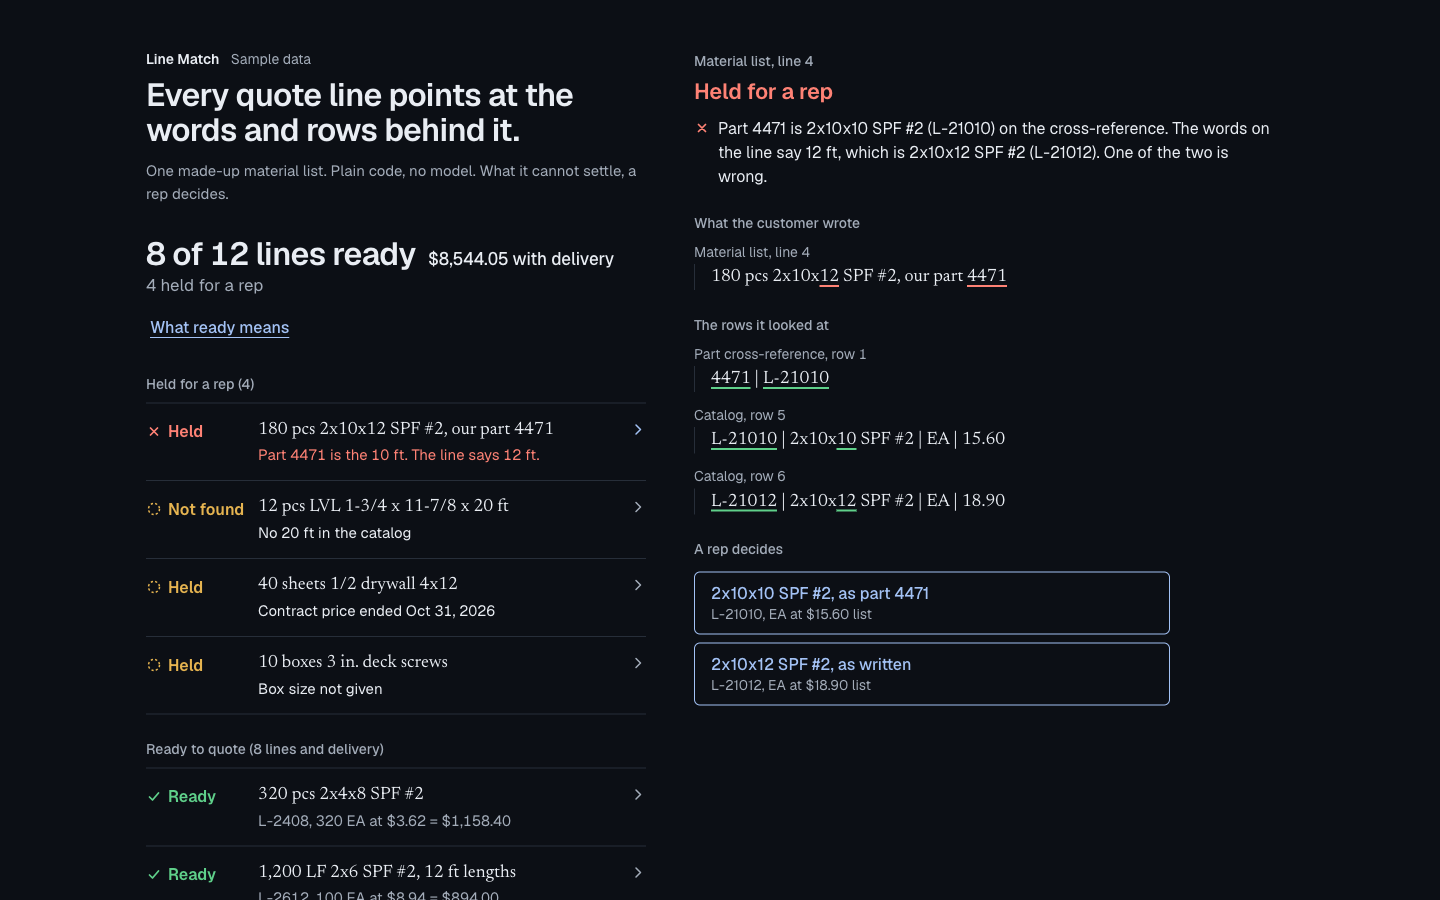
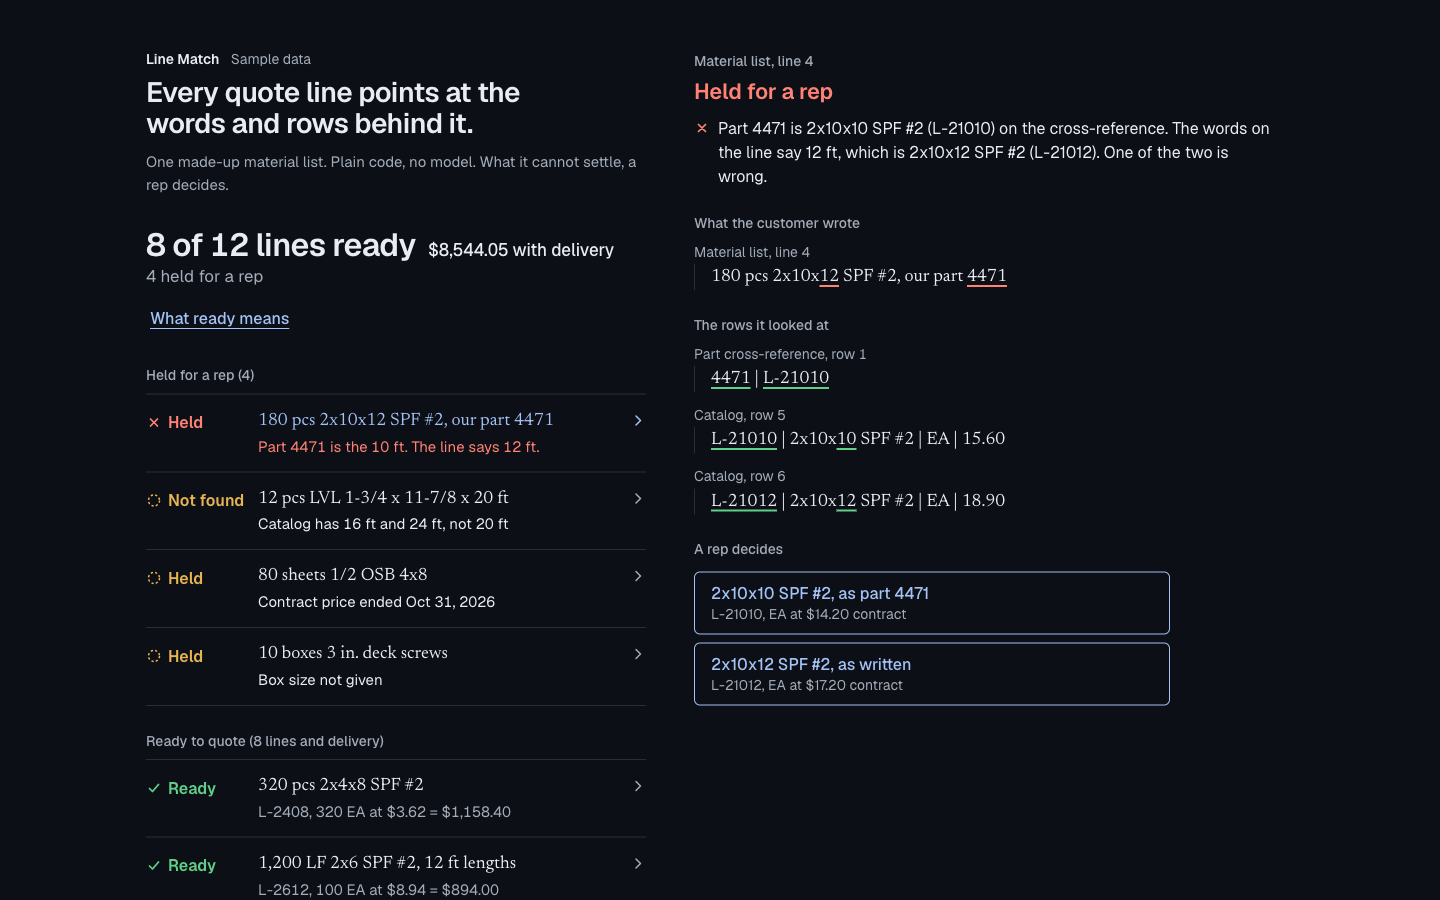
Apply review: square feet convert only where a sheet covers its face, pasted lines read plain sizes and say true reasons, a stud needs a length, choices show the price that applies, sample is a framer's list, re-shot

diff --git a/check.test.js b/check.test.js
@@ -29,7 +29,7 @@ test("the catalog reads cleanly: every row has a product and no leftover words",
     assert.ok(it.read.kind, it.desc);
     assert.deepEqual(it.read.unread, [], it.desc);
   }
-  assert.equal(book.cat.length, 17);
+  assert.equal(book.cat.length, 18);
 });
 
 test("linear feet become pieces by the item's length", () => {
@@ -45,11 +45,20 @@ test("linear feet become pieces by the item's length", () => {
 });
 
 test("square feet become sheets, rounded up, with the working shown", () => {
-  const l = checkAll(sample).lines[6];
-  assert.equal(l.item.sku, "P-2332T");
-  assert.equal(l.qty, 63);
-  assert.equal(l.amount, 1811.25);
-  assert.match(l.calc, /2,000 SF \/ 32 SF a sheet = 62\.5, rounded up to 63 SHT/);
+  const l = checkAll(sample).lines[5];
+  assert.equal(l.item.sku, "P-0716");
+  assert.equal(l.qty, 96);
+  assert.equal(l.amount, 1142.4);
+  assert.match(l.calc, /3,050 SF \/ 32 SF a sheet = 95\.31, rounded up to 96 SHT/);
+});
+
+test("square feet of a tongue-and-groove panel are held: the net width is not on the catalog row", () => {
+  const l = one("2,000 SF 3/4 T&G subfloor 4x8");
+  assert.equal(l.ready, false);
+  assert.equal(l.short, "Unit not settled");
+  assert.match(l.why, /a T&G sheet covers a little less than its 4x8 face/);
+  assert.equal(checkAll(sample).lines[6].qty, 63); // asked for in sheets, so nothing to convert
+  assert.equal(checkAll(sample).lines[6].amount, 1811.25);
 });
 
 test("a 3/4 subfloor is the 23/32 item, and the line says so", () => {
@@ -73,11 +82,12 @@ test("a rep's pick settles a held line and is recorded", () => {
   assert.equal(l4.amount, 3096);
   assert.equal(l4.by, "rep");
   assert.equal(l11.amount, 385);
-  assert.equal(l9.price, 15.4);
-  assert.equal(l9.amount, 616);
+  assert.equal(l9.price, 15.1);
+  assert.equal(l9.amount, 1208);
+  assert.match(l9.reason, /1\/2 \(sold as 15\/32\)/);
   assert.equal(l9.by, "rep");
   assert.equal(r.ready.length, 11);
-  assert.equal(r.total, 12641.05);
+  assert.equal(r.total, 13233.05);
 });
 
 test("a part number that agrees with the words passes, and settles a line the words leave open", () => {
@@ -99,7 +109,7 @@ test("box size not given: two items fit, held", () => {
 test("a length the catalog does not stock is not found, and nothing is swapped in", () => {
   const l = checkAll(sample).lines[7];
   assert.equal(l.state, "none");
-  assert.equal(l.short, "No 20 ft in the catalog");
+  assert.equal(l.short, "Catalog has 16 ft and 24 ft, not 20 ft");
   assert.match(l.why, /16 ft and 24 ft, not 20 ft/);
   assert.deepEqual(l.options, []);
 });
@@ -107,7 +117,7 @@ test("a length the catalog does not stock is not found, and nothing is swapped i
 test("a contract price past its date is held; a live one is used; no row means list", () => {
   const l = checkAll(sample).lines[8];
   assert.equal(l.kindOfHold, "price");
-  assert.match(l.why, /\$13\.85 ended on Oct 31, 2026, before the quote date, Nov 17, 2026/);
+  assert.match(l.why, /\$13\.60 ended on Oct 31, 2026, before the quote date, Nov 17, 2026/);
   assert.equal(l.short, "Contract price ended Oct 31, 2026");
   assert.equal(checkAll(sample).lines[0].priceKind, "contract");
   const list = one("40 pcs 2x6x16 SPF #2");
@@ -123,7 +133,7 @@ test("pasted lines: each comes out ready, held or not read, and none is dropped"
   assert.equal(out.length, 5);
   assert.deepEqual(out.map((l) => l.ready), [true, true, false, true, false]);
   assert.equal(out[2].short, "Sheet size not given");
-  assert.equal(out[4].short, "No 2x8 in the catalog");
+  assert.equal(out[4].short, "Catalog has 2x6 and 2x10, not 2x8");
   const junk = checkPasted("hello there\n\n40 pcs 2x6x16 SPF #2\n40 pcs 2x6x16 SPF #2\n0 pcs 2x4x8 SPF #2\n-5 pcs 2x4x8 SPF #2\n2.5 pcs 2x4x8 SPF #2", sample);
   assert.equal(junk.length, 6);
   assert.equal(junk[0].short, "Not read");
@@ -143,12 +153,49 @@ test("a word it does not know holds the line, even when the rest would match", (
 });
 
 test("a different species, a wrong unit and a line with no product are all held", () => {
-  assert.equal(one("40 pcs 2x6x16 SYP #2").short, "No SYP in the catalog");
+  assert.equal(one("40 pcs 2x6x16 SYP #2").short, "Catalog has SPF, not SYP");
   assert.equal(one("40 sheets 2x4x8 SPF #2").short, "Unit not settled");
   assert.equal(one("100 LF 7/16 OSB 4x8").short, "Unit not settled");
   assert.equal(one("10 rolls 2x4x8 SPF #2").short, "Unit not settled");
   assert.equal(one("12 pcs #2").short, "No product in these words");
   assert.equal(one("12 pcs 2x4 SPF #2").short, "Length not given");
+});
+
+test("a line the way a mail client writes it: spaced sizes, ft after the length, a multiplication sign", () => {
+  for (const t of ["60 pcs #2 SPF 2 x 4 x 8 ft", "60 pcs \u00b7 #2 SPF 2 \u00d7 4 \u00d7 8 ft", "60 pcs 2x4x8' SPF #2"]) {
+    const l = one(t);
+    assert.equal(l.ready, true, t);
+    assert.equal(l.item.sku, "L-2408", t);
+    assert.equal(l.amount, 217.2, t);
+  }
+});
+
+test("when nothing fits, the reason names the missing detail and says nothing false about the catalog", () => {
+  assert.equal(one("100 pcs 2x4x10 SPF #2").short, "Catalog has 8 ft, not 10 ft"); // row 1 of the catalog is a 2x4
+  assert.equal(one("40 pcs 2x6x10 SPF #2").short, "Catalog has 12 ft and 16 ft, not 10 ft");
+  assert.equal(one("120 sheets 3/4 OSB 4x8").short, "Catalog has 7/16 and 15/32, not 3/4 (23/32)");
+});
+
+test("a part number for a different kind of item: both items are named in full", () => {
+  const l = one("180 pcs 2x10x12 SPF #2, our part 4502");
+  assert.equal(l.state, "fail");
+  assert.equal(l.short, "Part 4502 is 7/16 OSB 4x8. The line says 2x10x12 SPF #2.");
+  assert.ok(!/none/.test(l.short + l.why));
+  assert.deepEqual(l.options.map((o) => o.sku), ["P-0716", "L-21012"]);
+});
+
+test("a stud with no length is held, like any other lumber", () => {
+  const l = one("100 pcs 2x4 studs");
+  assert.equal(l.ready, false);
+  assert.equal(l.short, "Length not given");
+  assert.deepEqual(l.options.map((o) => o.sku), ["L-2492"]);
+  assert.equal(checkAll(sample).lines[2].ready, true); // the sample line gives 92-5/8
+});
+
+test("a choice shows the price that will apply, contract or list", () => {
+  const r = checkAll(sample);
+  assert.deepEqual(r.lines[3].options.map((o) => o.note), ["L-21010, EA at $14.20 contract", "L-21012, EA at $17.20 contract"]);
+  assert.deepEqual(r.lines[10].options.map((o) => o.note), ["F-D301, BX at $9.80 list", "F-D305, BX at $38.50 list"]);
 });
 
 test("delivery: added only from the email and the zone sheet", () => {
@@ -210,6 +257,6 @@ test("words: what the reader takes from a description", () => {
   assert.equal(r.kind, "lvl");
   assert.equal(r.attrs.section.v, "1-3/4 x 11-7/8");
   assert.equal(r.attrs.len.v, "20");
-  assert.equal(readWords("3-1/4 in. x .131 framing nails, 2,500 ct").attrs.shank.v, ".131");
+  assert.equal(readWords("3-1/4 in. x .131 framing nails, 2,000 ct").attrs.shank.v, ".131");
   assert.equal(convert(96, "sheets", book.bySku.get("P-0716")).qty, 96);
 });

diff --git a/check.js b/check.js
@@ -36,7 +36,7 @@ const FILLER = new Set([
   "box", "boxes", "ea", "each", "pcs", "pc", "pieces", "sheets", "sheet", "rolls", "roll", "our", "please",
 ]);
 const REQUIRED = {
-  lumber: ["nominal", "len"], stud: ["nominal"], osb: ["thick"], subfloor: ["thick"],
+  lumber: ["nominal", "len"], stud: ["nominal", "len"], osb: ["thick"], subfloor: ["thick"],
   drywall: ["thick", "size"], lvl: ["section", "len"], wrap: ["size"], screw: ["flen", "pack"], nail: ["flen"],
 };
 export const ATTR_NAMES = {
@@ -45,8 +45,11 @@ export const ATTR_NAMES = {
 };
 const KIND_NAMES = {
   lumber: "lumber", stud: "precut stud", osb: "OSB", subfloor: "subfloor", drywall: "drywall",
-  lvl: "LVL", wrap: "house wrap", screw: "deck screws", nail: "framing nails",
+  lvl: "LVL", wrap: "house wrap", screw: "box of deck screws", nail: "box of framing nails",
 };
+// When nothing fits, the detail to name first: the one a reader thinks of as the variant.
+const BLAME = ["len", "size", "pack", "thick", "flen", "shank", "edge", "grade", "species", "section", "nominal"];
+const list = (a) => (a.length < 3 ? a.join(" and ") : `${a.slice(0, -1).join(", ")} and ${a.at(-1)}`);
 const say = (k, v) => (k === "len" && /^\d+$/.test(v) ? `${v} ft` : k === "flen" ? `${v} in.` : k === "species" ? v.toUpperCase() : v);
 
 /**
@@ -54,7 +57,7 @@ const say = (k, v) => (k === "len" && /^\d+$/.test(v) ? `${v} ft` : k === "flen"
  * of the text, so nothing is read twice, and whatever is left over is reported.
  */
 export function readWords(text, base = 0) {
-  let work = text.toLowerCase();
+  let work = text.toLowerCase().replace(/\u00d7/g, "x");
   const attrs = {};
   let kind = null;
   let kindRef = null;
@@ -89,7 +92,7 @@ export function readWords(text, base = 0) {
   if (PANELS.has(kind)) {
     hit(/\b4\s*x\s*(8|9|10|12)\b/, (m, at) => set("size", `4x${m[1]}`, at(0)));
   } else if (kind === null || kind === "stud") {
-    hit(/\b([246])\s*x\s*(\d{1,2})(?:\s*x\s*(\d{1,2})\b)?/, (m, at) => {
+    hit(/\b([246])\s*x\s*(\d{1,2})(?:\s*x\s*(\d{1,2})\b(?:\s*(?:ft\b\.?|foot\b|'))?)?/, (m, at) => {
       set("nominal", `${m[1]}x${m[2]}`, { start: at(1).start, end: at(2).end });
       if (m[3] && !attrs.len) set("len", m[3], at(3));
     });
@@ -113,7 +116,7 @@ export function readWords(text, base = 0) {
   if (!kind && attrs.nominal) kind = "lumber";
 
   const unread = [];
-  for (const m of work.matchAll(/[^\s,;:()]+/g)) {
+  for (const m of work.matchAll(/[^\s,;:()\u00b7]+/g)) {
     const w = m[0].replace(/^[.'"-]+|[.'"-]+$/g, "");
     if (!w || FILLER.has(w)) continue;
     unread.push({ text: text.slice(m.index, m.index + m[0].length), start: base + m.index, end: base + m.index + m[0].length });
@@ -186,6 +189,7 @@ export function convert(qty, unit, item) {
   }
   if (unit === "SF") {
     const m = a.size && /^(\d+)x(\d+)$/.exec(a.size.v);
+    if (a.edge) return { ok: false, why: `Asked for in square feet; a ${a.edge.v} sheet covers a little less than its ${a.size ? a.size.v : "nominal"} face, and this catalog row does not give the net width.` };
     if (!m || item.unit !== "SHT") return { ok: false, why: `Asked for in square feet; this item is sold by the ${item.unit} with no sheet size.` };
     const area = Number(m[1]) * Number(m[2]);
     const exact = qty / area;
@@ -237,7 +241,11 @@ export function checkLine(text, n, book, picks = {}, doc = "list") {
 
   let item = null;
   let settled = null; // how the item was settled, for the reader
-  const opt = (it, label) => ({ kind: "item", sku: it.sku, label: label || it.desc, note: `${it.sku}, ${it.unit} at $${fmt(it.list)} list` });
+  const applies = (it) => {
+    const r = book.price.find((p) => p.sku === it.sku);
+    return r && r.until >= book.quoteDate ? `$${fmt(r.amount)} contract` : `$${fmt(it.list)} list`;
+  };
+  const opt = (it, label) => ({ kind: "item", sku: it.sku, label: label || it.desc, note: `${it.sku}, ${it.unit} at ${applies(it)}` });
   if (picks.item && book.bySku.has(picks.item)) {
     item = book.bySku.get(picks.item);
     settled = "rep";
@@ -246,8 +254,9 @@ export function checkLine(text, n, book, picks = {}, doc = "list") {
     const diff = Object.keys(read.attrs).filter((k) => !other.read.attrs[k] || other.read.attrs[k].v !== read.attrs[k].v);
     const said = diff.map((k) => say(k, read.attrs[k].v)).join(", ");
     const is = diff.map((k) => (other.read.attrs[k] ? say(k, other.read.attrs[k].v) : "none")).join(", ");
-    return hold("fail", `Part ${read.part.v} is the ${is}. The line says ${said}.`,
-      `Part ${read.part.v} is ${other.desc} (${other.sku}) on the cross-reference. The words on the line say ${said}, which is ${cands[0].desc} (${cands[0].sku}). One of the two is wrong.`,
+    const alike = other.read.kind === read.kind && diff.length > 0 && diff.every((k) => other.read.attrs[k]);
+    return hold("fail", alike ? `Part ${read.part.v} is the ${is}. The line says ${said}.` : `Part ${read.part.v} is ${other.desc}. The line says ${cands[0].desc}.`,
+      `Part ${read.part.v} is ${other.desc} (${other.sku}) on the cross-reference. The words on the line ${alike ? `say ${said}, which is` : "are"} ${cands[0].desc} (${cands[0].sku}). One of the two is wrong.`,
       {
         ...asked, kindOfHold: "conflict",
         refs: [lref(doc, line, read.part), ...diff.map((k) => lref(doc, line, read.attrs[k]))],
@@ -267,12 +276,13 @@ export function checkLine(text, n, book, picks = {}, doc = "list") {
     let short = "Not in the catalog";
     let near = [];
     let bad = [];
-    for (const k of Object.keys(read.attrs)) {
+    for (const k of BLAME.filter((b) => read.attrs[b])) {
       const loose = book.cat.filter((it) => fits(it, read, k) && it.read.attrs[k]);
       if (!loose.length) continue;
       const has = [...new Set(loose.map((it) => say(k, it.read.attrs[k].v)))];
-      short = `No ${say(k, read.attrs[k].v)} in the catalog`;
-      why = `Not found: the catalog has this in ${has.join(" and ")}, not ${say(k, read.attrs[k].v)}. Nothing is swapped in.`;
+      const asked = read.attrs[k].raw ? `${read.attrs[k].raw} (${read.attrs[k].v})` : say(k, read.attrs[k].v);
+      short = `Catalog has ${list(has)}, not ${asked}`;
+      why = `Not found: the catalog has this in ${list(has)}, not ${asked}. Nothing is swapped in.`;
       near = loose;
       bad = [k];
       break;

diff --git a/samples.js b/samples.js
@@ -22,10 +22,10 @@ export const sample = {
     "140 pcs 2x4 precut studs 92-5/8",
     "180 pcs 2x10x12 SPF #2, our part 4471",
     "30 pcs 2x12x16 SPF #2",
-    "96 sheets 7/16 OSB 4x8",
-    "2,000 SF 3/4 T&G subfloor 4x8",
+    "3,050 SF 7/16 OSB 4x8",
+    "63 sheets 3/4 T&G subfloor 4x8",
     "12 pcs LVL 1-3/4 x 11-7/8 x 20 ft",
-    "40 sheets 1/2 drywall 4x12",
+    "80 sheets 1/2 OSB 4x8",
     "12 rolls house wrap 9 ft x 100 ft",
     "10 boxes 3 in. deck screws",
     "8 boxes 3-1/4 framing nails",
@@ -40,15 +40,16 @@ export const sample = {
     "L-21012 | 2x10x12 SPF #2 | EA | 18.90",
     "L-21216 | 2x12x16 SPF #2 | EA | 33.50",
     "P-0716 | 7/16 OSB 4x8 | SHT | 13.25",
+    "P-1532 | 15/32 OSB 4x8 | SHT | 15.10",
     "P-2332T | 23/32 OSB T&G subfloor 4x8 | SHT | 31.80",
-    "G-1208 | 1/2 drywall 4x8 | SHT | 10.60",
-    "G-1212 | 1/2 drywall 4x12 | SHT | 15.40",
+    "G-1208 | 1/2 drywall 4x8 | SHT | 14.20",
+    "G-1212 | 1/2 drywall 4x12 | SHT | 21.30",
     "E-1116 | LVL 1-3/4 x 11-7/8 x 16 ft | EA | 118.00",
     "E-1124 | LVL 1-3/4 x 11-7/8 x 24 ft | EA | 177.00",
     "W-9100 | House wrap 9 ft x 100 ft | ROLL | 149.00",
     "F-D301 | 3 in. deck screws, 1 lb | BX | 9.80",
     "F-D305 | 3 in. deck screws, 5 lb | BX | 38.50",
-    "F-N314 | 3-1/4 in. x .131 framing nails, 2,500 ct | BX | 58.00",
+    "F-N314 | 3-1/4 in. x .131 framing nails, 2,000 ct | BX | 58.00",
   ],
   xref: [
     "Customer part | SKU",
@@ -66,7 +67,7 @@ export const sample = {
     "L-21216 | 30.40 | 2026-12-31",
     "P-0716 | 11.90 | 2026-11-30",
     "P-2332T | 28.75 | 2026-11-30",
-    "G-1212 | 13.85 | 2026-10-31",
+    "P-1532 | 13.60 | 2026-10-31",
     "W-9100 | 136.00 | 2026-12-31",
     "F-N314 | 52.00 | 2026-12-31",
   ],

diff --git a/style.css b/style.css
@@ -30,7 +30,7 @@ body { margin: 0; background: var(--bg); color: var(--ink); font: 400 17px/1.5 v
 
 .mark { font-size: 14px; font-weight: 600; margin: 0 0 var(--s2); }
 .mark .tag { font-weight: 400; color: var(--muted); margin-left: var(--s2); }
-h1 { font-size: 30px; font-weight: 600; line-height: 1.1; letter-spacing: -.02em; margin: 0 0 var(--s3); text-wrap: balance; }
+h1 { font-size: 26px; font-weight: 600; line-height: 1.1; letter-spacing: -.02em; margin: 0 0 var(--s3); text-wrap: balance; }
 .sub { font-size: 15px; color: var(--muted); margin: 0; max-width: 34em; }
 
 .reading { margin-top: var(--s6); }
@@ -172,9 +172,10 @@ a { color: var(--accent); text-underline-offset: 3px; text-decoration-thickness:
   #own-tool { grid-area: own; }
   #src-tool { grid-area: srcs; }
   .foot { grid-area: foot; }
-  h1 { font-size: 32px; }
+  h1 { font-size: 28px; }
   #groups .row-item .evidence { display: none; }
   #groups .row[aria-expanded="true"] .chev { transform: none; color: var(--accent); }
+  #groups .row[aria-expanded="true"] .val b { color: var(--accent); }
   .side-h { display: block; font-size: 14px; font-weight: 500; color: var(--muted); margin: 0 0 var(--s1); }
   .side-title { display: block; font-size: 22px; font-weight: 600; letter-spacing: -.01em; margin: 0 0 var(--s2); font-variant-numeric: tabular-nums; }
 }

diff --git a/app.js b/app.js
@@ -133,6 +133,9 @@ function detail(l, docs, { own = false } = {}) {
     }
     box.append(ch);
   }
+  if (!l.ready && l.kindOfHold === "notfound" && l.srcRefs.length && !own) {
+    box.append(el("p", "tool-sub", "A rep would special-order this or offer what the catalog has. The page does neither."));
+  }
   if (!l.ready && l.options.length && own) {
     box.append(el("p", "ev-h", "What a rep would choose from"));
     box.append(el("p", "tool-sub", l.options.map((o) => o.label).join(", or ")));
@@ -162,7 +165,7 @@ function row(l, docs, { own = false, isOpen, onToggle }) {
   const s = el("span", `status st-${l.state}`);
   s.append(icon(glyph[l.state]), el("span", null, statusWord(l)));
   const v = el("span", "val");
-  v.append(el("b", null, l.n === "delivery" ? "Delivery to the jobsite" : l.text));
+  v.append(el("b", null, l.n === "delivery" ? "Delivery" : l.text));
   v.append(el("span", `meta${l.ready ? "" : ` st-${l.state}`}`, l.ready ? `${l.short}${l.n === "delivery" ? "" : ` = ${usd(l.amount)}`}${l.by === "rep" ? ", settled by a rep" : ""}` : l.short));
   const chev = icon("chev");
   chev.classList.add("chev");

diff --git a/README.md b/README.md
@@ -13,7 +13,7 @@ A line is ready to quote only when all of these hold:
 1. **It reads.** The line has a quantity, a unit and a description, and every word of the description is accounted for. A word the reader does not know holds the line, even when the rest would match.
 2. **One item fits.** The words fit exactly one catalog item. If two fit, the line is held and both are offered. If none fits, the line says which word has no match and what the catalog does have. Nothing is swapped in.
 3. **A part number agrees.** If the customer gives their own part number, the cross-reference has to point at the same item as the words. If they disagree, the line is held and a rep picks.
-4. **The unit converts.** Pieces, sheets, rolls and boxes must match the unit the item is sold in. Linear feet become pieces by the item's length. Square feet become sheets by the sheet size. Both round up, and the sum is shown.
+4. **The unit converts.** Pieces, sheets, rolls and boxes must match the unit the item is sold in. Linear feet become pieces by the item's length. Square feet become sheets by the sheet size. Both round up, and the sum is shown. Square feet of a tongue-and-groove panel are held: the tongue sits inside the next sheet, so a T&G sheet covers a little less than its face (47-1/2 in. is a common net width), and the catalog row does not say how much.
 5. **The price is in date.** The customer's contract price is used while its valid-through date is on or after the quote date. If it has ended, the line is held with both the old price and list. If there is no contract row, list is used and labelled as list.
 
 Delivery is added only when the email asks for it and its ZIP code is on the zone sheet.
@@ -22,7 +22,7 @@ The sample: 8 of 12 lines are ready, $8,544.05 with delivery. Four are held:
 
 - **Line 4:** the customer's part 4471 is the 10 ft board on the cross-reference; the words on the line say 12 ft.
 - **Line 8:** a 20 ft LVL. The catalog has 16 ft and 24 ft.
-- **Line 9:** the customer's contract price for 4x12 drywall ended on Oct 31, 2026.
+- **Line 9:** the customer's contract price for 1/2 OSB roof sheathing ended on Oct 31, 2026.
 - **Line 11:** deck screws by the box, with no box size. The catalog has 1 lb and 5 lb.
 
 A rep can settle a held line by picking one of the choices. The pick is recorded on the line and in the export. Ready lines are approved together and download as a generic quote import CSV. Nothing is sent from the page.
@@ -46,7 +46,7 @@ The proposal would then pass through the same checks, so a rep only approves lin
 - Delivery is one flat charge by ZIP range. There is no minimum order, no free-delivery threshold and no boom truck fee.
 - Tax is not worked out. Totals are before tax.
 - The export is a generic CSV. It is not any ERP's import format.
-- The prices are made up. They were not checked against a market source.
+- The prices are made up. The lumber, OSB, LVL, drywall and nail prices were compared with published mill and retail prices on 17 Nov 2026 and sit in a plausible range. House wrap, deck screws and the delivery charges were not checked.
 
 ## Run the tests
 
@@ -54,7 +54,7 @@ The proposal would then pass through the same checks, so a rep only approves lin
 node --test
 ```
 
-Needs Node 20 or later. No dependencies. 20 tests cover the sample result, the arithmetic on every ready line, both unit conversions and their rounding, the panel thickness rule, the part number conflict, a rep's picks, a missing box size, a length the catalog does not stock, a contract price past its date, pasted lines (junk, a repeat, zero, a negative, a fraction of a piece), an unknown word, a wrong species and a wrong unit, delivery, the export, and that every reference points at the exact text it claims.
+Needs Node 20 or later. No dependencies. 26 tests cover the sample result, the arithmetic on every ready line, both unit conversions and their rounding, square feet of a T&G panel, the panel thickness rule, the part number conflict (and a part number for a different kind of item), a rep's picks and the price shown on each choice, a stud with no length, sizes written with spaces and "ft", a missing box size, a length the catalog does not stock, a contract price past its date, pasted lines (junk, a repeat, zero, a negative, a fraction of a piece), an unknown word, a wrong species and a wrong unit, delivery, the export, and that every reference points at the exact text it claims.
 
 ## Open the page locally
 
